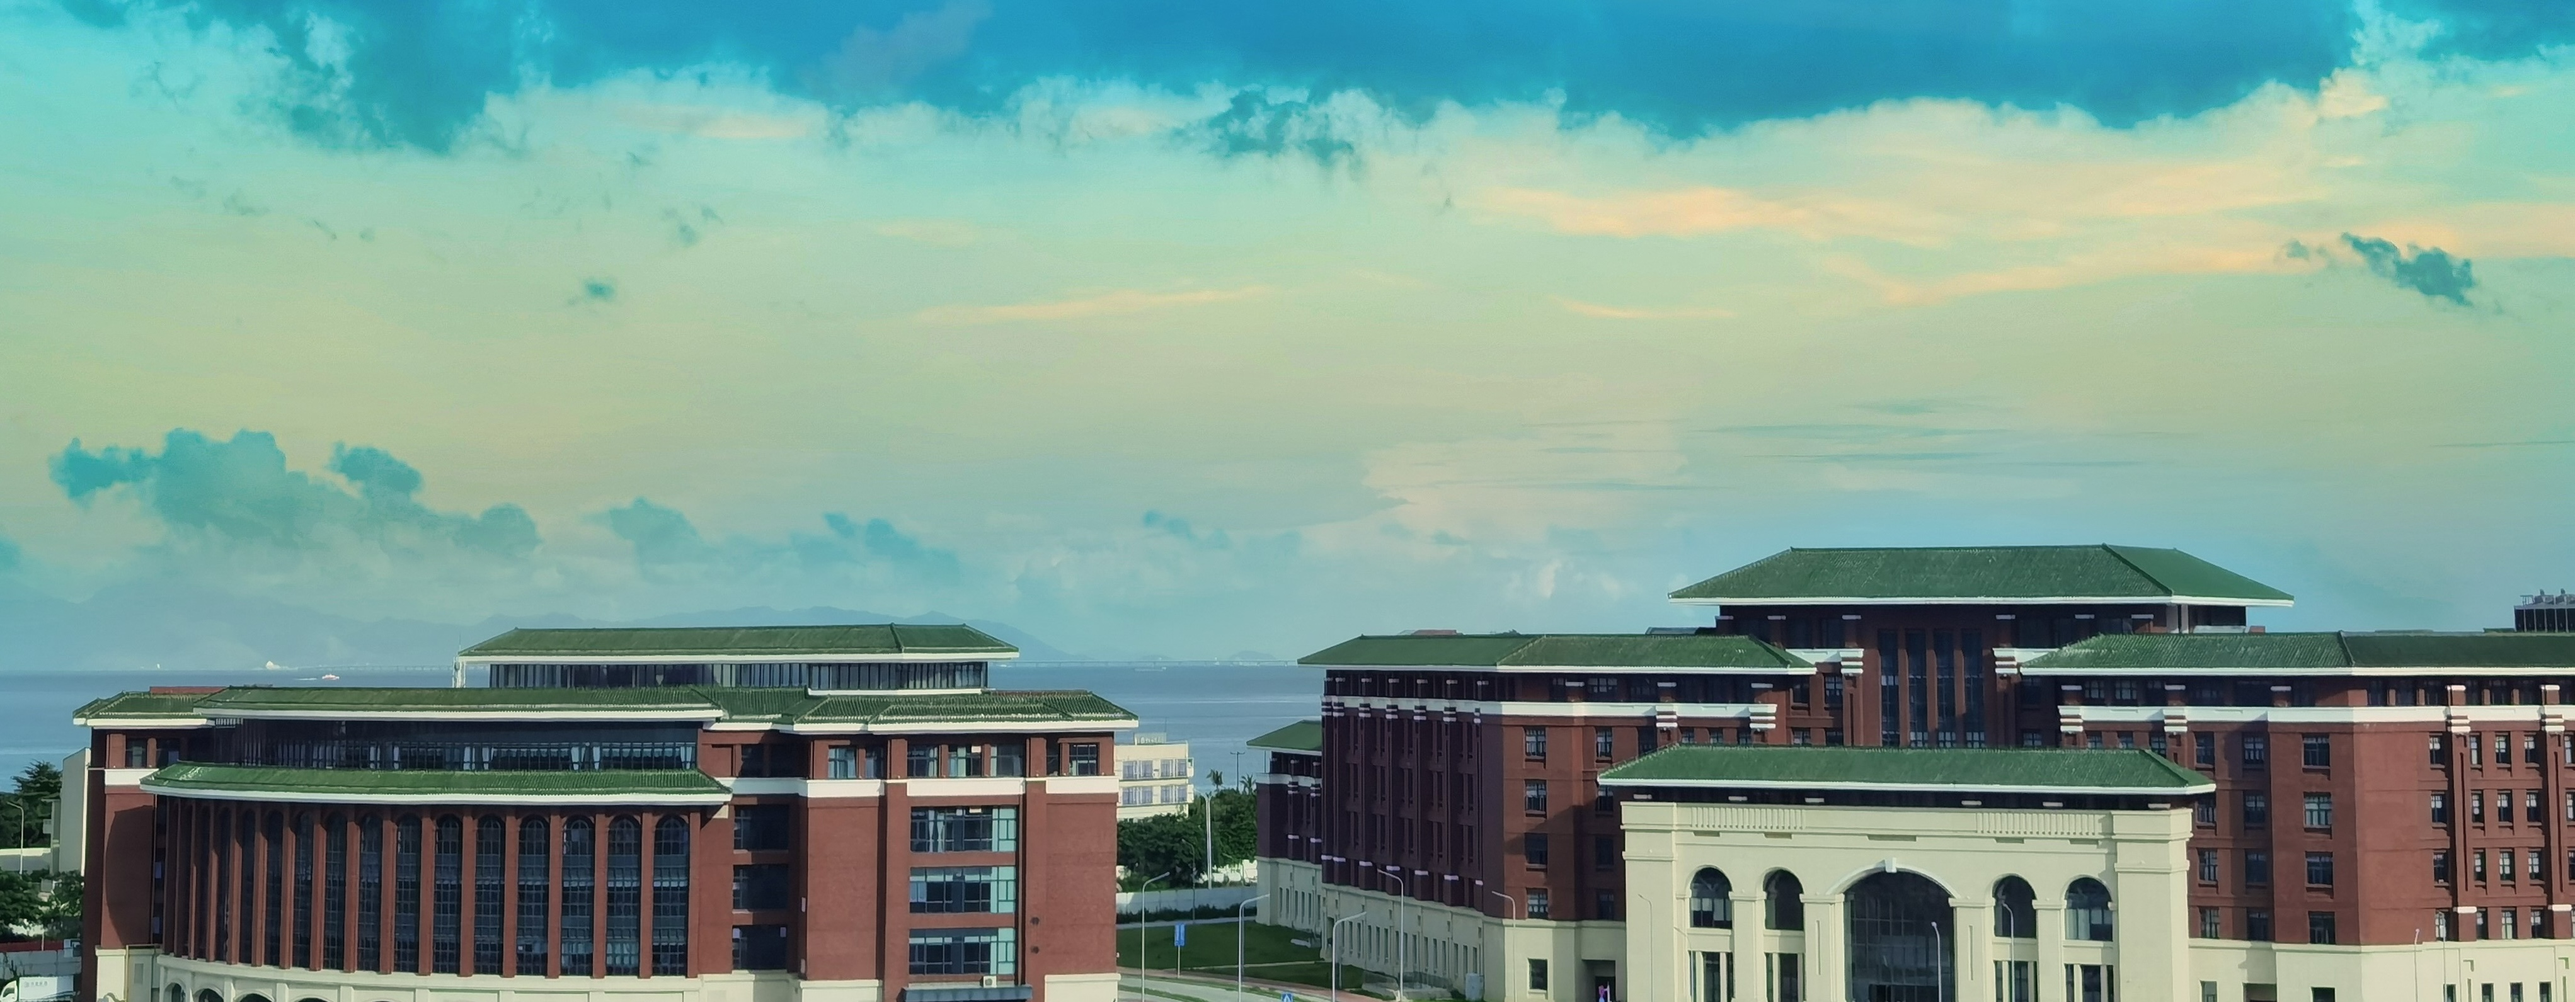
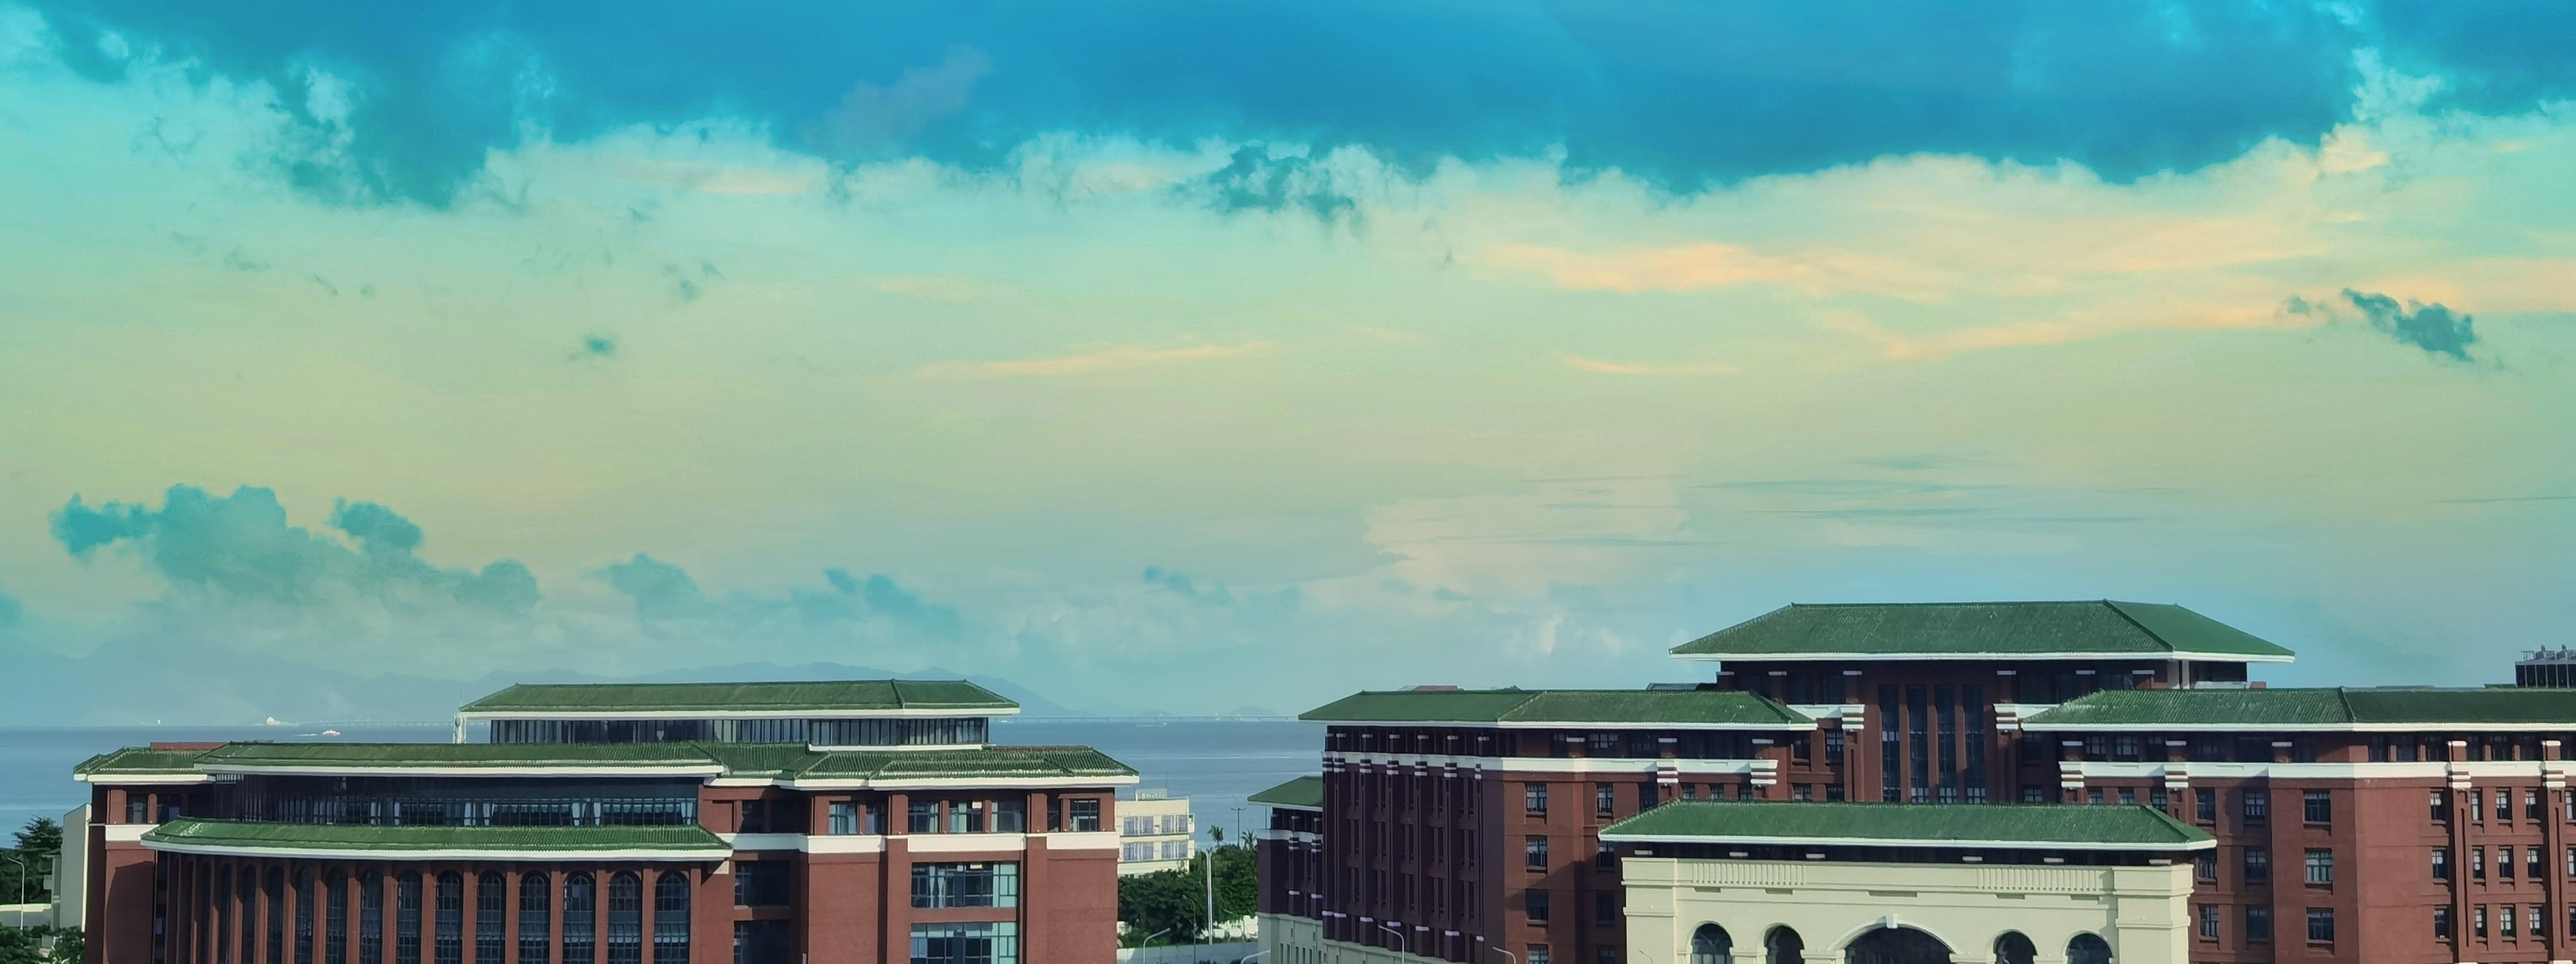
.

diff --git a/index.html b/index.html
@@ -26,7 +26,7 @@
         <div w3-include-html="header.html" class="container"></div>
     </nav>
     
-    <div class="page-header header-filter clear-filter" data-parallax="true" style="background-image: url('./assets/img/sysu1.jpg');  background-size: 100% 100%; height: 620px;">
+    <div class="page-header header-filter clear-filter" data-parallax="true" style="background-image: url('./assets/img/sysu.jpg');  background-size: 100% 100%; height: 620px;">
         <div class="container">
             <div class="row">
                 <div class="col-md-8 ml-auto mr-auto">
